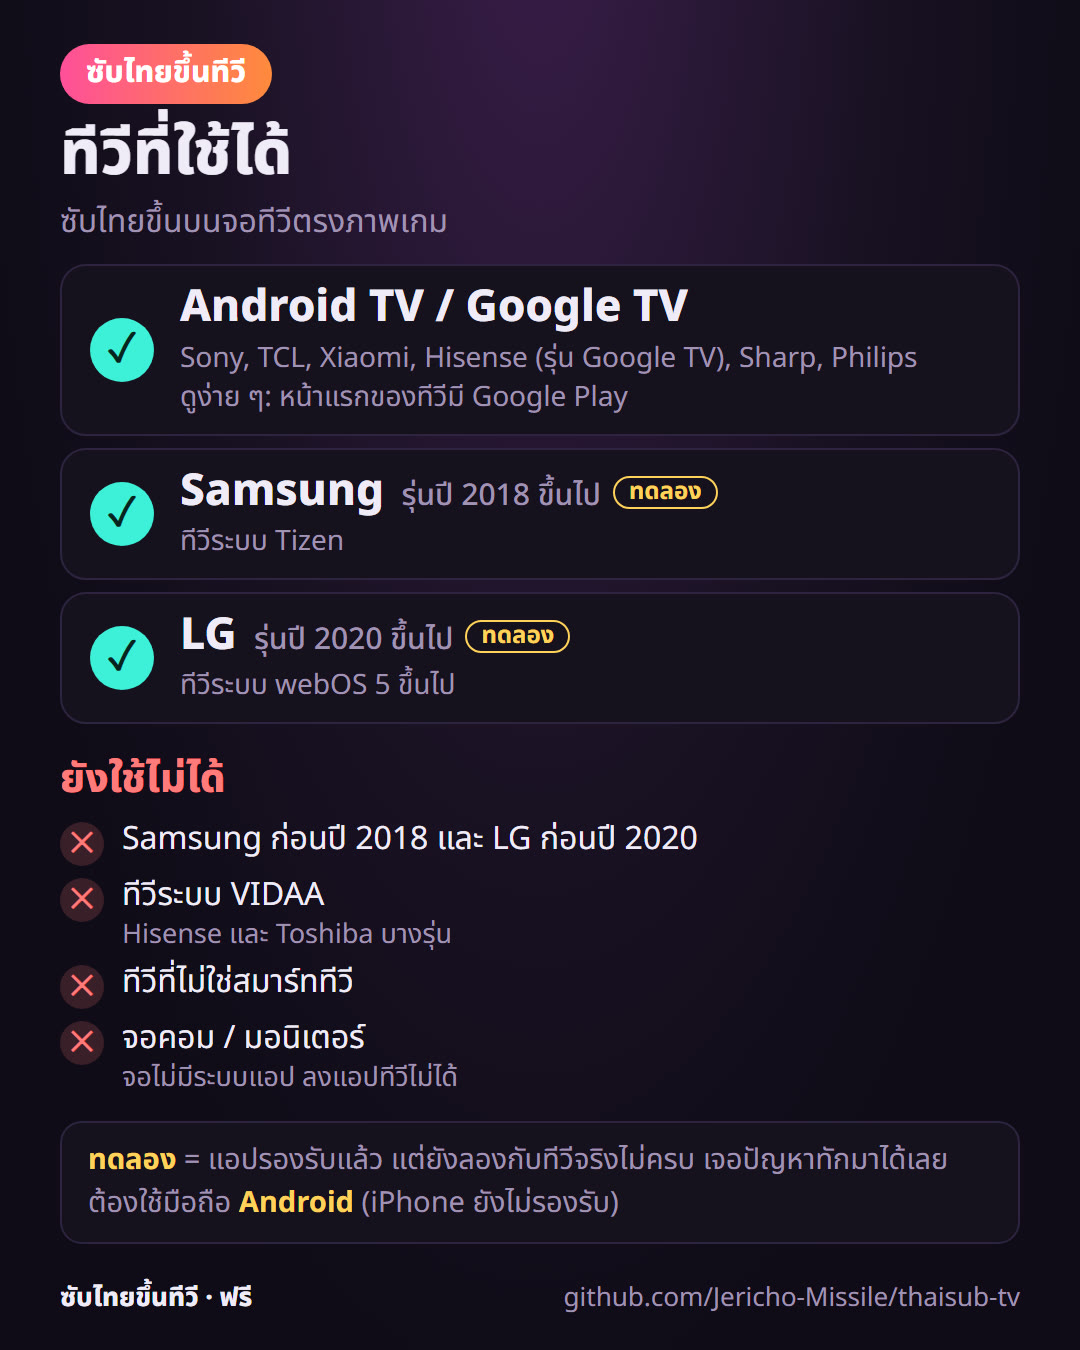
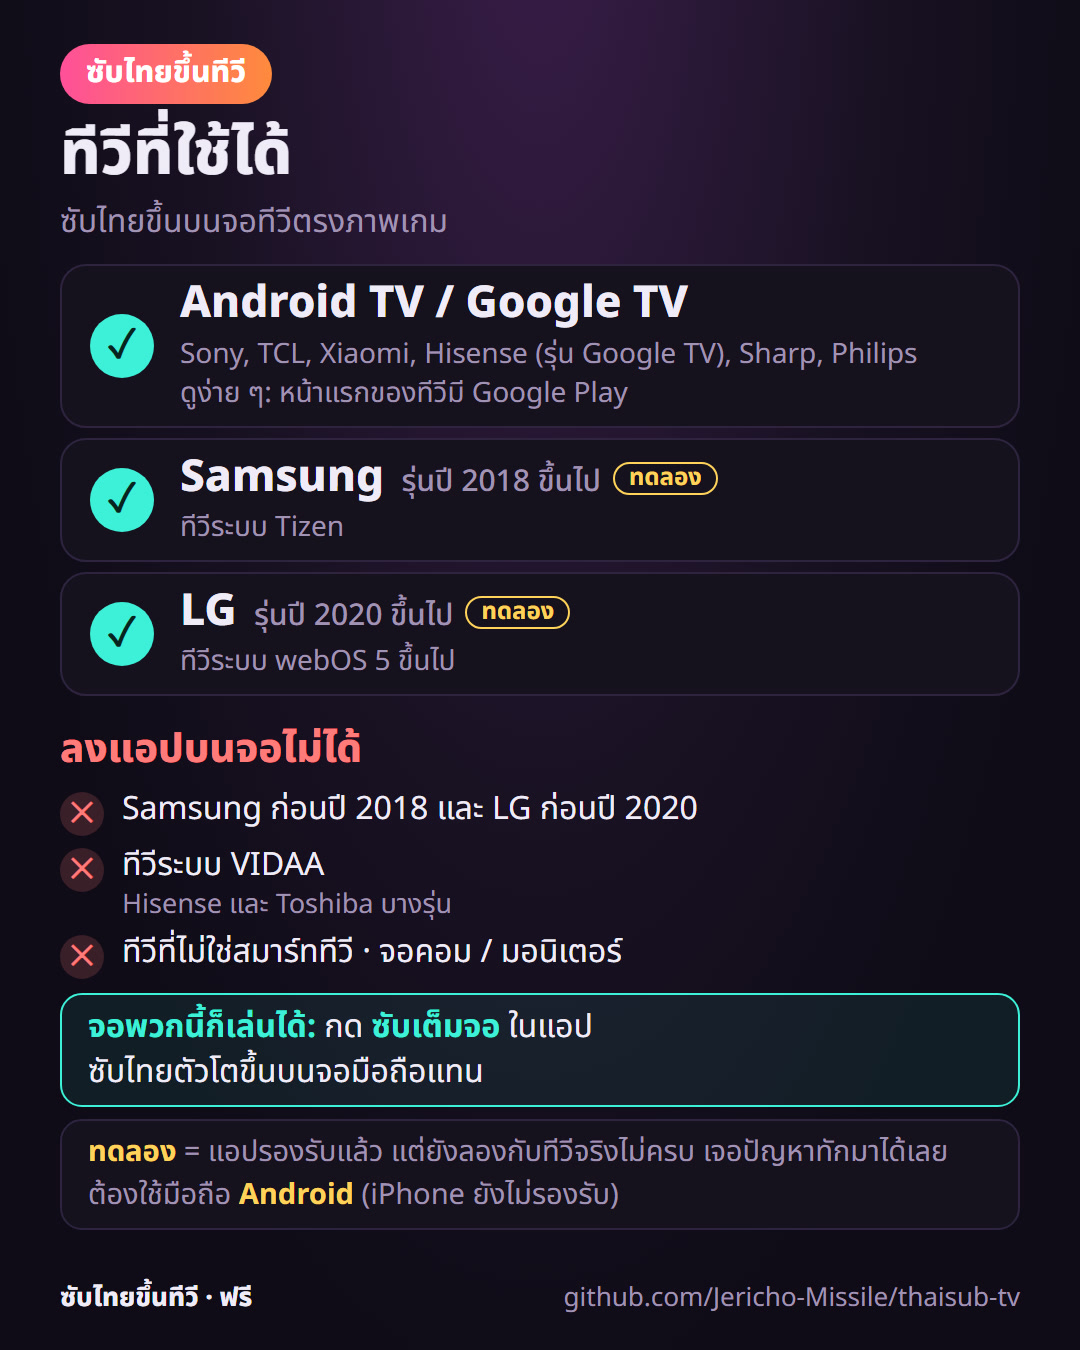
Real phone screenshots for installing/updating, and ซับเต็มจอ for screens the TV app cannot run on

diff --git a/README.md b/README.md
@@ -15,7 +15,7 @@
 | Samsung (รุ่นปี 2018 ขึ้นไป) | [คู่มือ Samsung](tv/samsung.md) |
 | LG (รุ่นปี 2020 ขึ้นไป) | [คู่มือ LG](tv/lg.md) |
 
-ทีวีรุ่นเก่ากว่านี้, ทีวีระบบ VIDAA, ทีวีที่ไม่ใช่สมาร์ททีวี และจอคอม ลงแอปบนทีวีไม่ได้
+ทีวีรุ่นเก่ากว่านี้, ทีวีระบบ VIDAA, ทีวีที่ไม่ใช่สมาร์ททีวี และจอคอม ลงแอปบนทีวีไม่ได้ แต่ยังเล่นได้ด้วยปุ่ม **ซับเต็มจอ** ในแอป (ซับไทยตัวโตขึ้นบนจอมือถือแทน มีหน้าต่างกล้องเล็ก ๆ ให้เช็กว่ากล้องเล็งตรงซับ)
 
 ![ทีวีที่ใช้ได้](tv/img/supported.jpg)
 

diff --git a/phone/install.md b/phone/install.md
@@ -7,6 +7,14 @@
 
 > มือถือจะเตือนว่าไม่รู้จักแอป เพราะแอปไม่ได้อยู่ใน Play Store เป็นเรื่องปกติ แอปไม่ขอรหัสผ่าน ไม่ยุ่งกับเกม ใช้ฟรี
 
+## ภาพจริงจากมือถือ (อัปเดต/ติดตั้ง)
+
+![โหลดไฟล์ แล้วกดติดตั้ง](img/real-1.jpg)
+
+![Play Protect เตือน ก็ติดตั้งต่อได้](img/real-2.jpg)
+
+หน้าจอแต่ละยี่ห้ออาจต่างกันนิดหน่อย ด้านล่างคือขั้นตอนแบบละเอียด รวมตอนลงครั้งแรก
+
 ---
 
 ![หน้าปก](img/p1.jpg)
